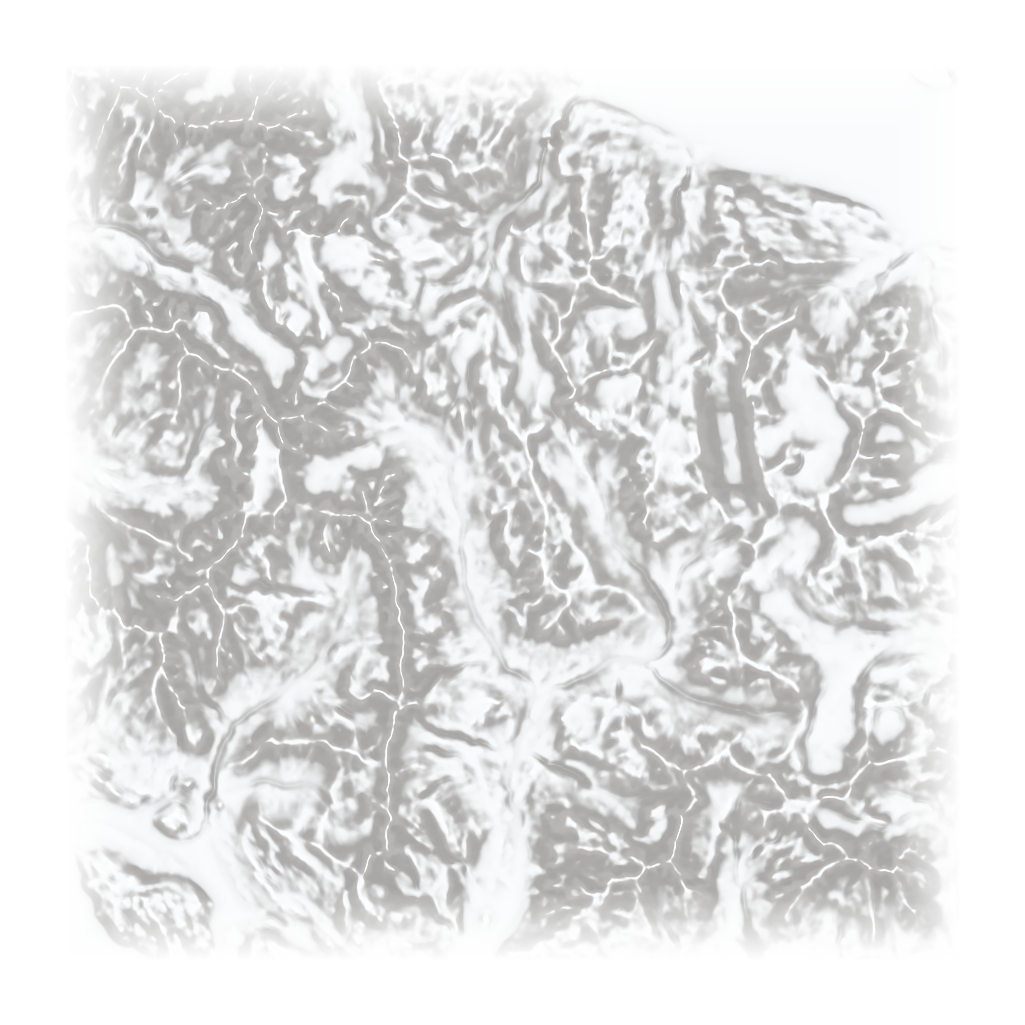
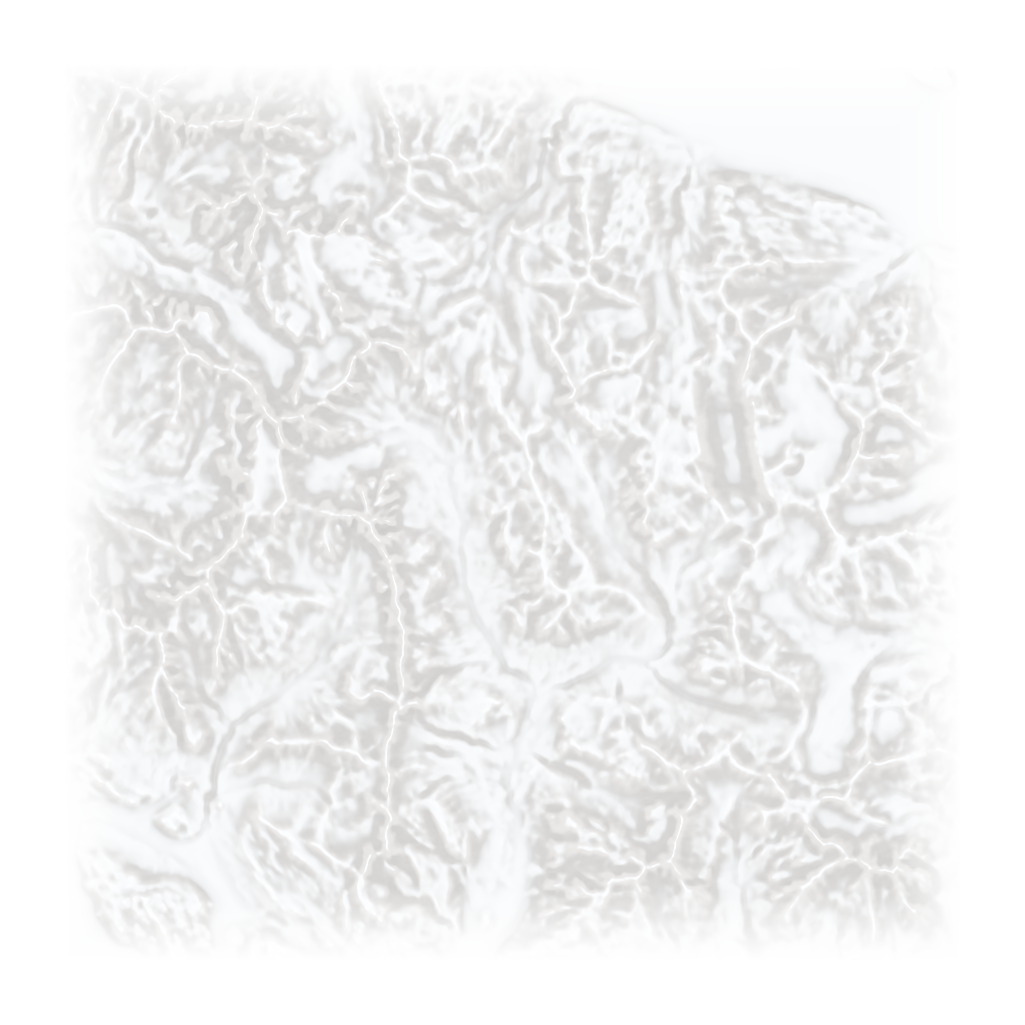
Keep alpine rock detail in shadow and package the splash once

diff --git a/tools/build_scenery.py b/tools/build_scenery.py
@@ -94,7 +94,9 @@ def relief_colors(ground, name):
         exposed = (exposed * exposed * (3 - 2 * exposed))[..., None]
         fluting = np.clip(cut / 24, -.8, .8)
         powder = np.array((.98, .99, 1.0)) * (.98 - crease * .15 + fluting * .03 - occlusion * .29)[..., None]
-        schist = np.array((.48, .47, .46)) * (.73 + stratum * .34 + fluting * .12 - occlusion * .36)[..., None]
+        # Terrain3D multiplies this map with the scan's albedo. Keep the rock tint
+        # near neutral so the same albedo is not applied twice in shadow.
+        schist = np.array((.89, .88, .87)) * (.82 + stratum * .17 + fluting * .09 - occlusion * .19)[..., None]
         color = powder + (schist - powder) * exposed
     boundary = np.minimum.reduce((x + 6144, 18432 - x, z + 6144, 18432 - z))
     weight = (np.clip((boundary - 1536) / 1700, 0, 1) * np.clip(height / 16, 0, 1))[..., None]
